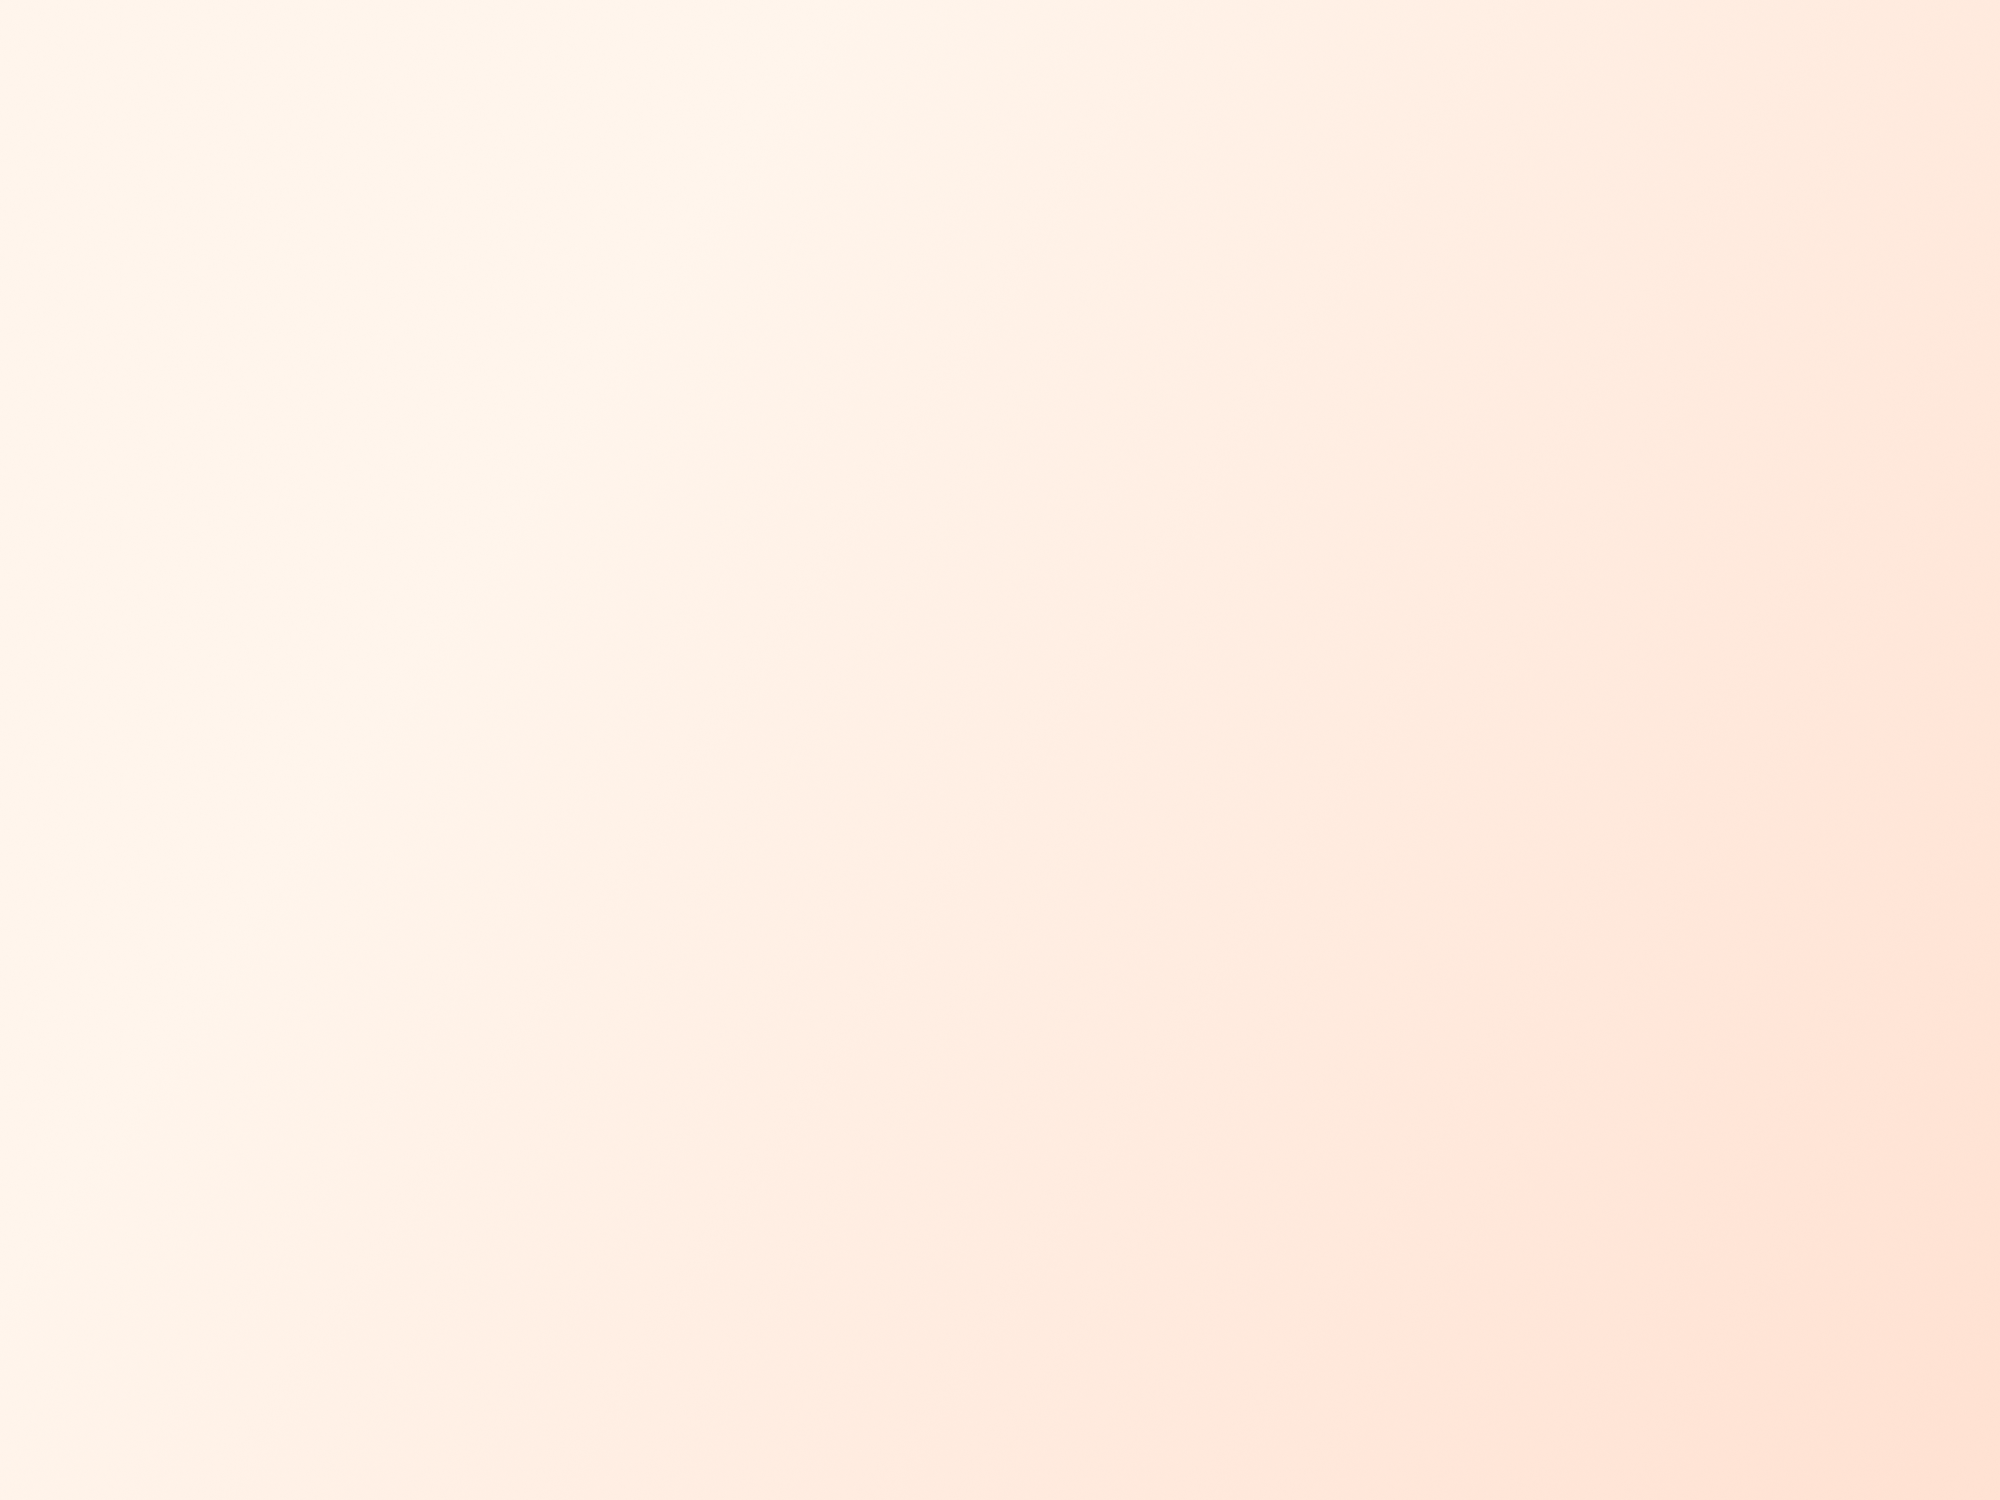
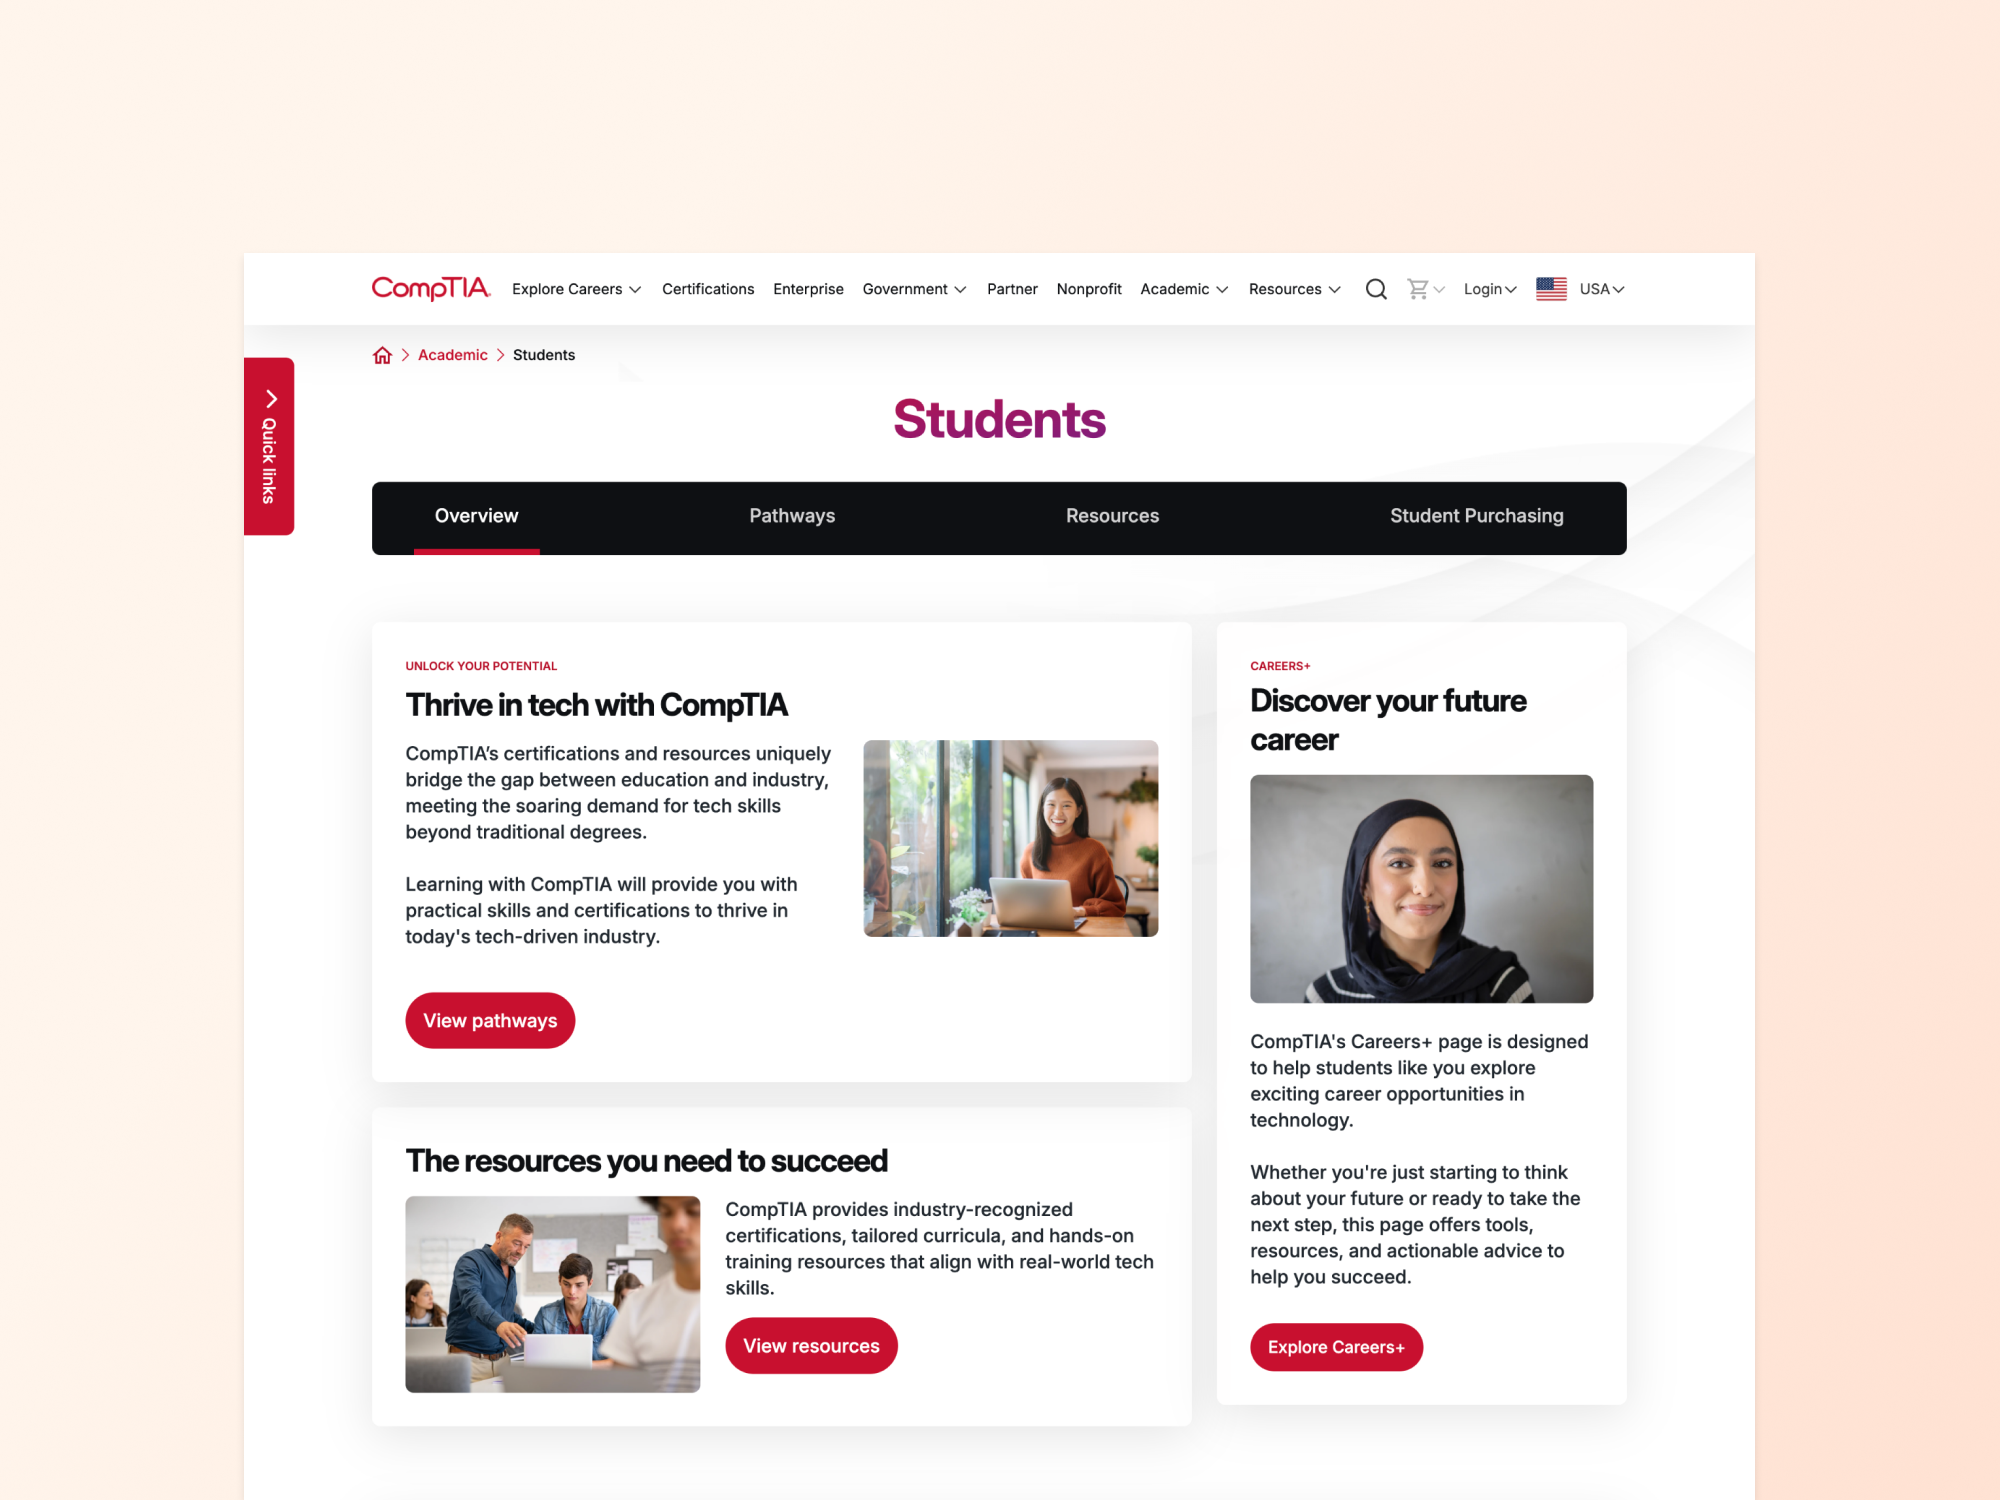
Take the re-exported CompTIA card image
The earlier export was a flat gradient; this one carries the artwork. Same
treatment as the rest: 1400x1050 progressive JPEG at 117KB, already 4:3 so
nothing is cropped. All twelve homepage cards now use the supplied imagery.

diff --git a/index.html b/index.html
@@ -127,7 +127,7 @@
           </li>
           <li class="ed-work__item reveal">
             <a class="ed-proj" href="comptia.html">
-              <span class="ed-proj__media"><img src="brand-assets/exp-1.jpg" alt="CompTIA" loading="lazy" /></span>
+              <span class="ed-proj__media"><img src="brand-assets/COMPTIA-home-v1.jpg" alt="CompTIA" loading="lazy" /></span>
               <span class="ed-proj__row">
                 <span class="ed-proj__name">CompTIA</span>
                 <span class="ed-proj__arrow" aria-hidden="true">&#8599;</span>
